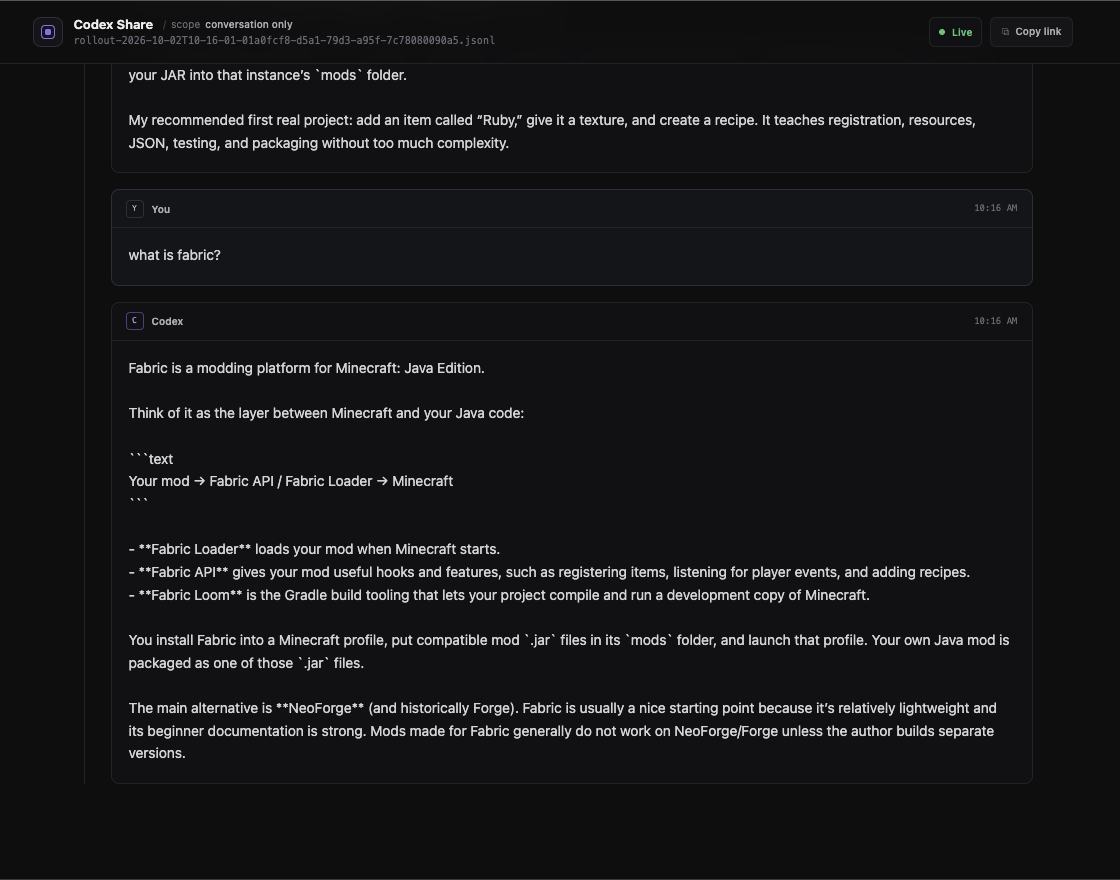
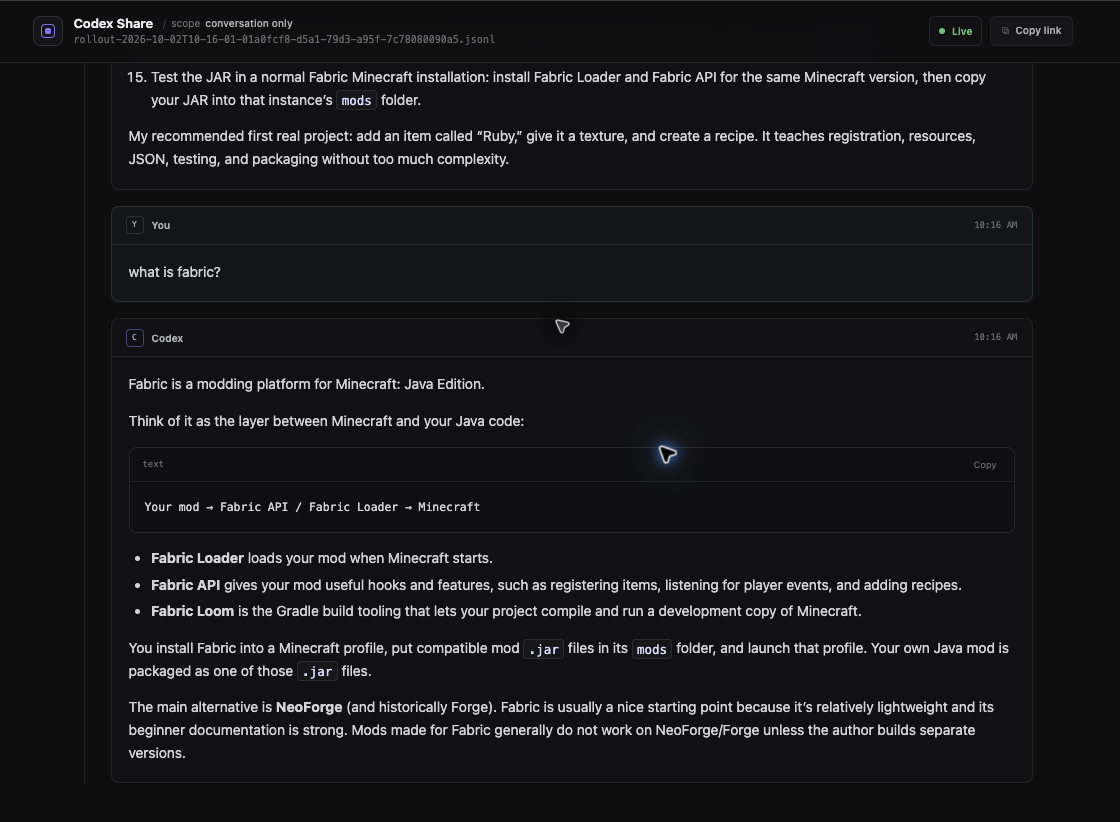
docs: refresh Minecraft viewer screenshot

diff --git a/README.md b/README.md
@@ -101,15 +101,3 @@ Permissions are enforced by the server for both the snapshot and live WebSocket 
 Share tokens have 192 bits of entropy, live in the URL path, are checked by the local server, and expire when the process exits. The server binds to `127.0.0.1:48123` by default.
 
 This is defense in depth, not a guarantee that arbitrary prose contains no sensitive information. Review what the agent is discussing before sharing it.
-
-## Development
-
-The React viewer is built with Vite and checked into `web/dist` so building or installing the Rust binary does not require Node.js. When changing the viewer, rebuild the embedded assets before compiling Rust:
-
-```console
-cd web
-npm ci
-npm run build
-cd ..
-cargo test
-```
